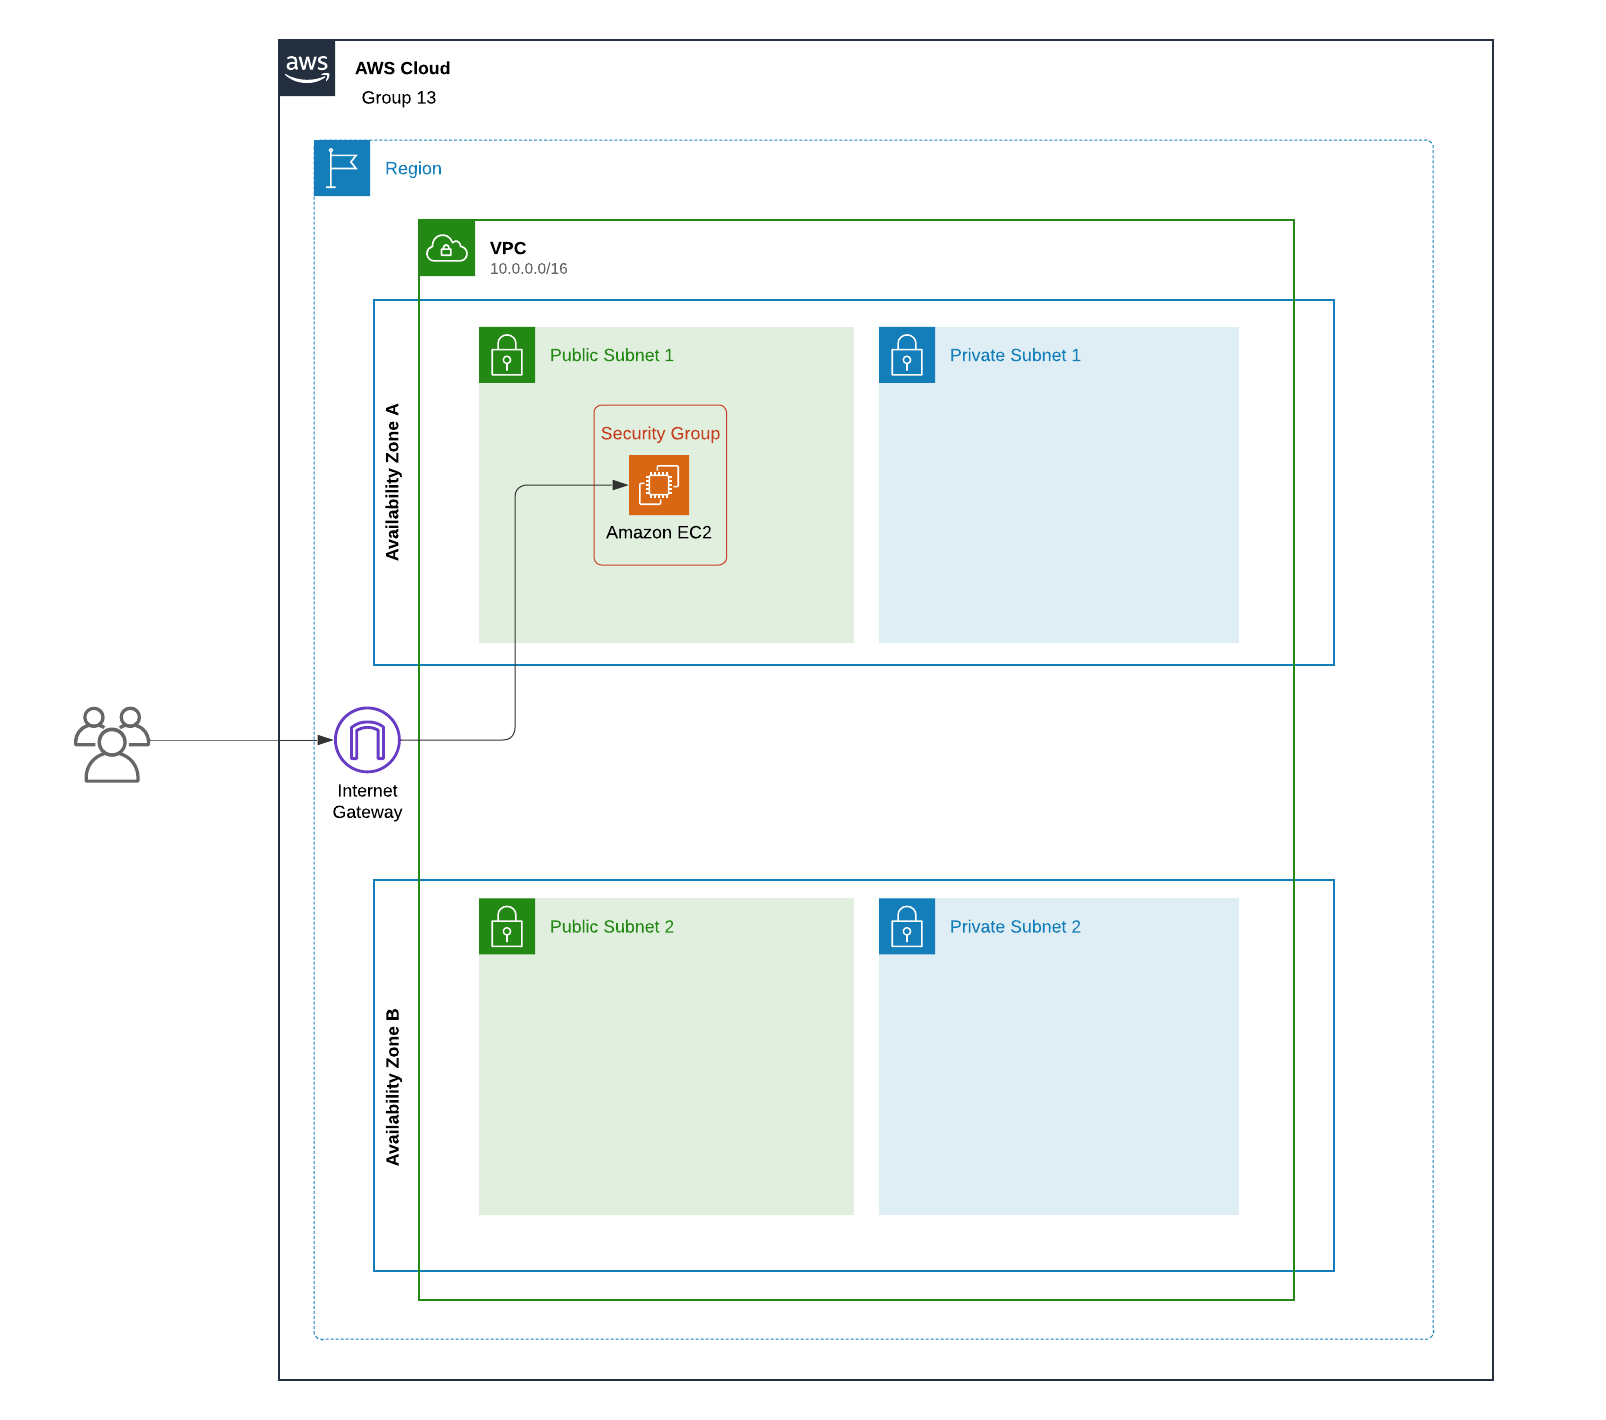
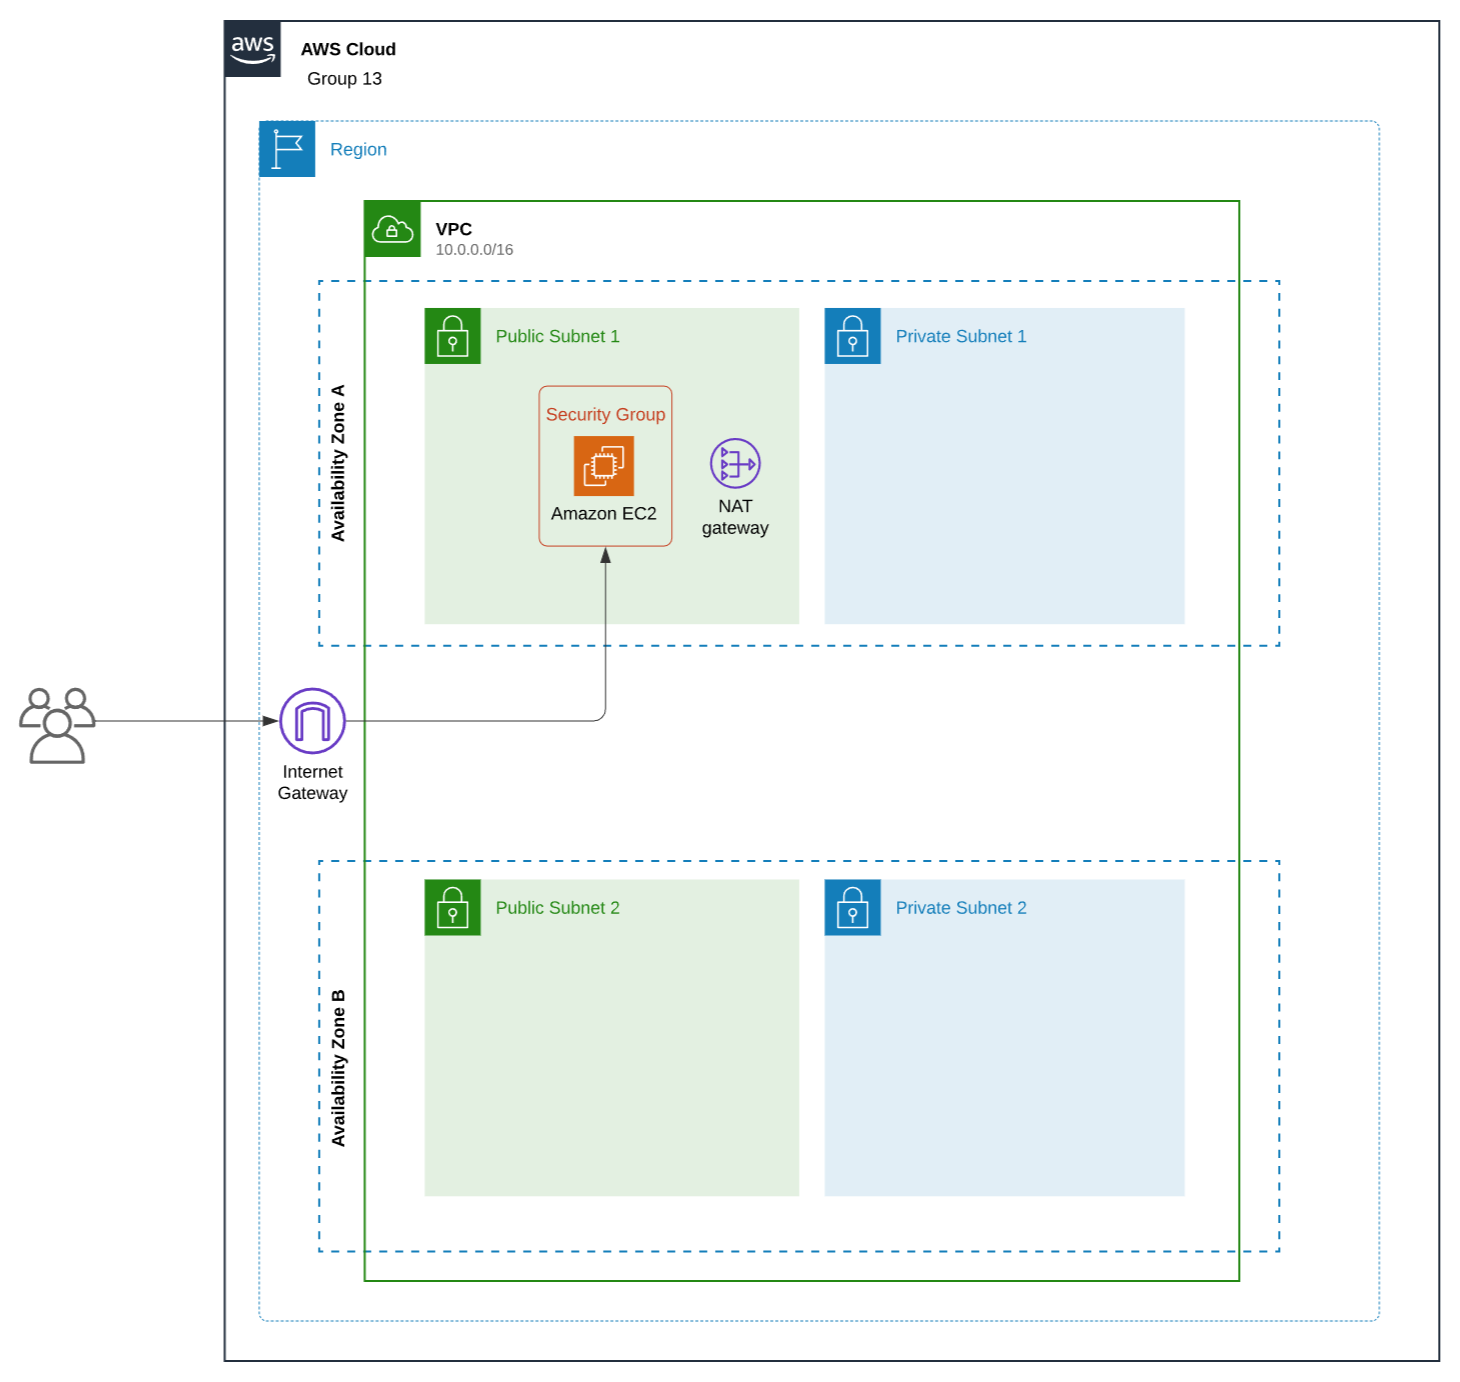
README Update

diff --git a/README.md b/README.md
@@ -45,18 +45,32 @@ In this phase, the goal was to develop a highly available, highly scalabe and se
 
 ### Task 1: Creating a virtual network
 
-We first set up our VPC, and following our initial architectural diagram, the VPC contains 2 Availability Zones, each having a public and a private subnet (2 public, 2 private subnets in total). To allow public access to our application, we had to set up an Internet Gateway to connect our VPC. We also created a public route table to define where the traffic should be directed, and attached our previously created Internet Gateway to it. 
+We first set up our VPC, and following our initial architectural diagram, the VPC contains 2 AZs, _us-east-1a_ and _us-east-1b_, each having a public and a private subnet (2 public, 2 private subnets in total). 
+
+To allow public access to our application, we had to set up an Internet Gateway to connect our VPC. We created a public route table to define where the traffic should be directed, attached public subnets to its Subnet Associations, and added our previously created Internet Gateway to it. 
+
+We also created a NAT Gateway and attached it to one of the public subnets. We created a private route table and added private subnets to it, as well as configuring a new route to point to this NAT Gateway.
+
+We decided to use two AZs with public and private subnets each to build a scalable and secure architecture. For example, by distributing EC2 Instances across multiple AZs, we ensure high availability. 
 
 
 ### Task 2: Creating a virtual machine
 
 We started off by defining a Security Group to enchance security of our application, and to define Inbound and Outbound Rules. 
-Afterwards, we created a EC2 instance for the first AZ (us-east-1a).  
+Afterwards, we created a EC2 instance for the first AZ (us-east-1a). We  configured EC2 Instance with _Ubuntu AMI_as specified in the task, and choose _t3.micro_ instance type, because it is a part of AWS Free Tier to ensure budget-friendliness, as cost optimization is in the focus of this project. Then, we configured it to the VPC created in the above task, specifically the public subnet of the first AZ, and enabled auto-assign public IPv4 Address, so that the instance will automatically receive a public IP Address at launch. Further, we attached the Security Group that we created previously to control the traffic of the instance.
+
+For user data, we uploaded the script from the task description, which is available [here](./helper-scripts/UserdataScript-phase-2.sh). This script will install the required web application and database on the virtual machine.
 
 
 ### Task 3: Testing the deployment
 
 During this task, we tested the deployment of the application on the EC2 instance by entering the public IPv4 addresses of our instance, and then performing various operations like viewing, adding, deleting, and modifying records to ensure everything works as expected. We found that these operations work correctly on the instance. 
+
+The running EC2 Instance can be seen on the image below. 
+(docs/first-ec2-instance.jpg)
+
+EC2 Instance is available on the following link: http://54.91.198.177/
+
 
 At this point in the project, after Phase 2, we achieved the following structure as shown on the diagram:
 
@@ -69,18 +83,17 @@ In this phase, the goal was to seperate the database and web server infrastructu
 
 ### Task 1: Changing the VPC configuration
 
-As our original architecture already included two AZs with public and private subnets each, we did not need to do any updating or reconfiguration of the VPC, therefore we skipped task 1 and immediately went to task 2.
+As our original architecture already included two AZs with public and private subnets each, we did not need to do any updating or reconfiguration of the VPC, therefore we didn't have to change anything for Task 1, so we started working on Task 2.
 
 
 ### Task 2: Creating and configurating the Amazon RDS Databse
 
-During this task we created an Amazon RDS Database that runs on MySQL Engine, during this we have also defined a Security Group allowing only the web application to access the database. The database is deployed on the private subnets for improved security.
+We started this task by defining a Security Group to allow inbound traffic to our RDS Database. After this, we started with creating Amazon RDS Database that runs on MySQL Engine. We configured credentials for this database. For instance type we choose _db.t3.micro_ due to its Free Tier eligibility. We attached it to our project VPC and defined a Database Subnet Group for it that contains private subnets from both VPC's AZs,  which specifies where the RDB Database should be located. The reason we choose private subnets is to maintain security as private subnets do not have direct access to Internet, and access to the database is strictly controlled through NAT Gateway. We also attached previously defined Security Group to the database.
 
 
 ### Task 3: Configuring the development environment
 
-Next step was to setup Cloud9 IDE which we have done sucessfuly, then we made sure that Cloud9 has access to both EC2 Instances and RDS Database by defining Security Groups. 
-
+Next step was to setup Cloud9 IDE which allows us to execute shell commands within the environment. We chose _t3.micro_ instance as specified in the task. For network settings, we choose Secure Shell (SSH), and attached it to our VPC in a public subnet. 
 
 ### Task 4:  Provisioning SecretsManager 
 
@@ -124,6 +137,11 @@ These commands can also be found inside the cloud9-scripts.yml file, which is av
 ### Task 7: Testing the application
 
 Upon completing the previous tasks, the final step was to test the application. We tested the application by performing basic operations including viewing, adding, deleting and modifying student records. We concluded that the database was successfuly migrated from the old EC2 Instance into RDS.
+
+The running EC2 Instance can be seen on the image below. 
+(./docs/second-ec2-instance.png)
+
+Second EC2 Instance is available on the following link: http://3.94.212.139/
 
 After _Phase 3_, following stucture was achieved as shown on diagram:
 
